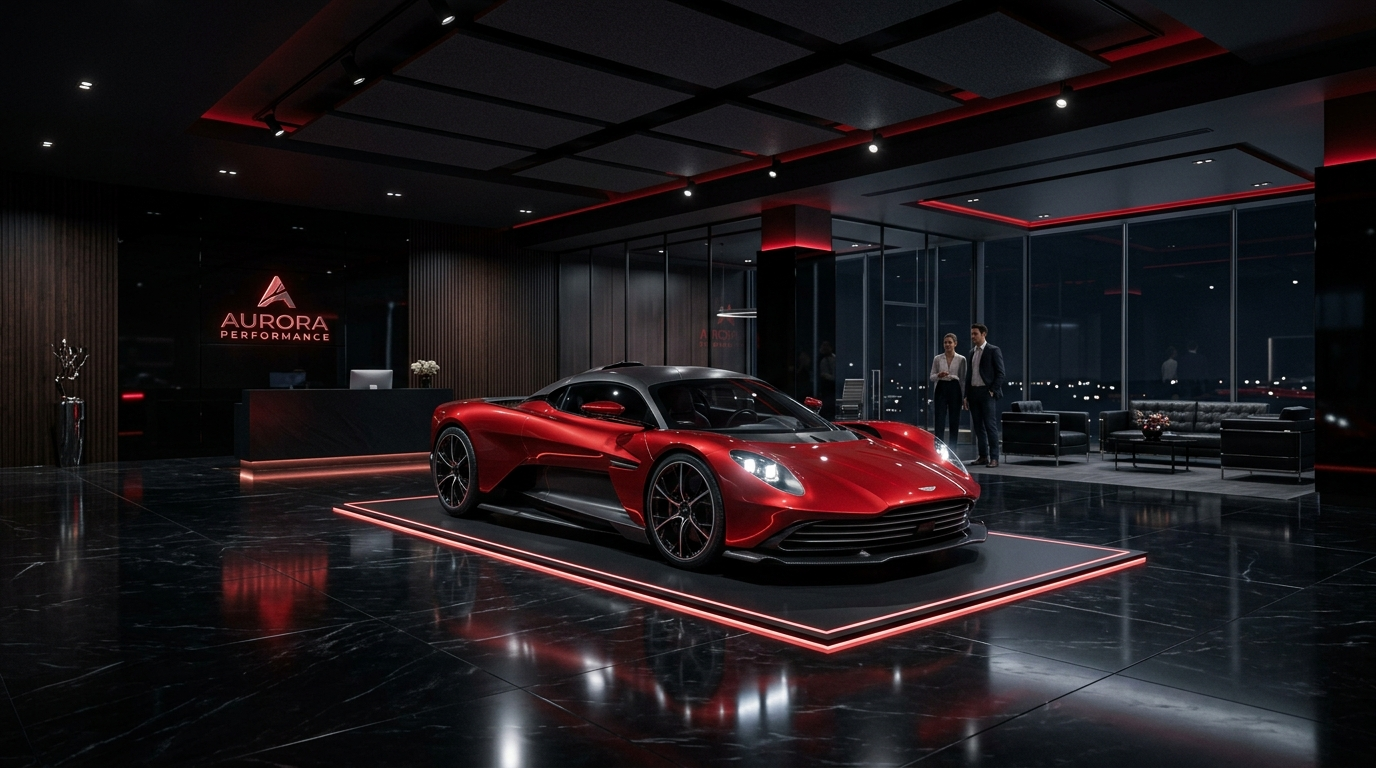
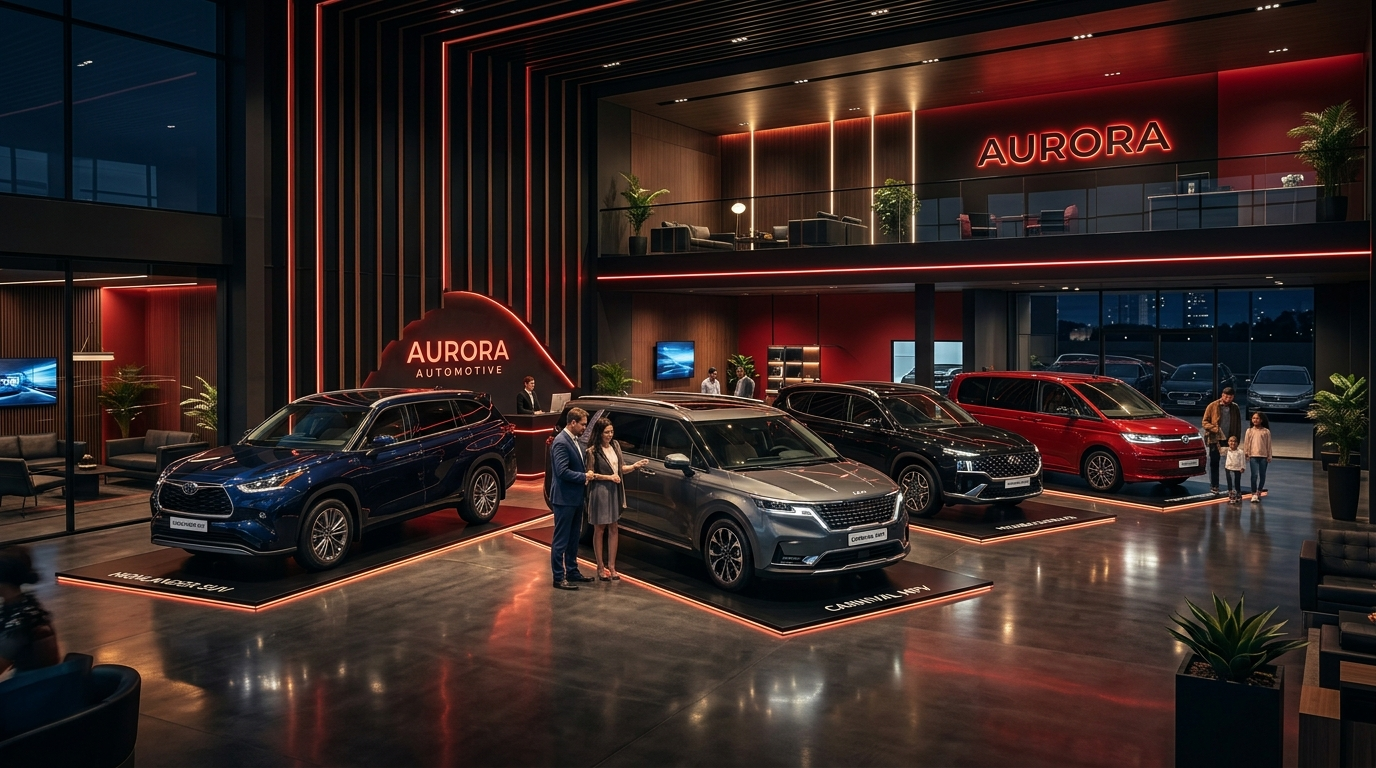
chore: update hero background with family cars showroom

diff --git a/src/components/sections/Hero.tsx b/src/components/sections/Hero.tsx
@@ -98,11 +98,11 @@ export default function Hero() {
 
             <motion.div className="flex flex-wrap items-center gap-6 pt-4" variants={fadeUp} initial="hidden" animate="visible" custom={4}>
               {["Informasi Transparan", "Respon Cepat", "Lokasi Strategis"].map((text) => (
-                <div key={text} className="flex items-center gap-2 text-sm text-gray-400">
-                  <div className="w-6 h-6 bg-red-600/20 rounded-full flex items-center justify-center">
-                    <Icon name="check" size={12} className="text-red-400" />
+                <div key={text} className="flex items-center gap-2 text-sm text-gray-300">
+                  <div className="w-6 h-6 bg-red-600/20 rounded-full flex items-center justify-center border border-red-600/30">
+                    <Icon name="check" size={12} className="text-red-600" />
                   </div>
-                  <span>{text}</span>
+                  <span className="font-medium">{text}</span>
                 </div>
               ))}
             </motion.div>
